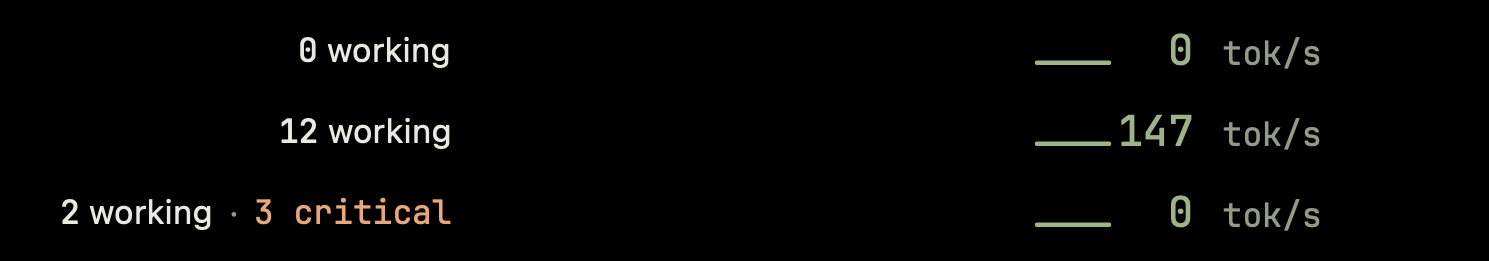
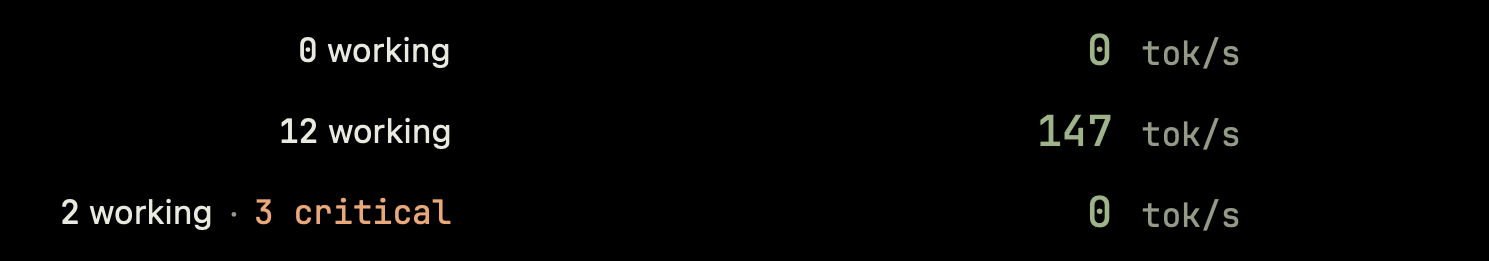
fleet: the notched bar drops the sparkline and reaches 74 % of main (QA round 2)
Odin QA round 2: the follow-up's <= 75 % on the notched geometry is mandatory, and the content the
follow-up specifies (sparkline 24 + three-digit reserve 25.2 + " tok/s" 39.6 + 6 pt of spacing =
94.8 pt) only reached 396.6 pt = 85.7 %. The sparkline is the one block big enough to give, so the
row now draws it only where the geometry has room:

- FleetPanelMetrics.closedRowShowsSparkline(hasHardwareNotch:) - false beside a camera cutout, true
  where the bar can afford it (its width stays 24 pt there).
- FleetClosedRowView draws the sparkline only when that is true, so the notched wing's content is
  67.8 pt, the wing is 73.8 pt, and the sample bar is 2 x 73.8 + 195 = 342.6 pt against main's
  463 pt = 74.0 %, inside the mandatory 347.25 pt. Displays with no cutout are unchanged
  (225.6 pt at the same content).
- FleetFormatTests: the notched test now asserts that bound (no exception clause), the 6 pt padding
  and 195 pt gap, equal wings, and that the sparkline is drawn only where the geometry has room
  (the notched row measures the same with and without a trend; the no-cutout row differs by exactly
  2 x (24 + 3) pt).

225 tests, 0 failures; app BUILD SUCCEEDED. Renders regenerated: docs/fleet-closed-width-notched.png.

Changed region(s): [[0.6797, 0.4291, 0.8959, 0.5824], [0.6797, 0.7356, 0.8959, 0.8889], [0.6797, 0.1226, 0.8959, 0.2759]]

diff --git a/boringNotchTests/FleetFormatTests.swift b/boringNotchTests/FleetFormatTests.swift
@@ -1204,8 +1204,10 @@ final class FleetFormatTests: XCTestCase {
     }
 
     /// The notched geometry - notch width 185 pt and the camera gap with its 5 pt clearance per side
-    /// (195 pt) - is the owner's MacBook. There each wing gives its content 6 pt, so the bar hugs the
-    /// camera and is narrower than main's, which padded nothing and said "tok/s total".
+    /// (195 pt) - is the owner's MacBook. There each wing gives its content 6 pt AND drops the
+    /// sparkline (`closedRowShowsSparkline`): the 195 pt camera gap is fixed, and that combination
+    /// is what brings the bar to 74 % of main's width - the follow-up's 75 % is mandatory. Main's
+    /// bar, which padded nothing and said "tok/s total", is the comparison the bar must beat.
     @MainActor
     func testTheClosedRowOnANotchedDisplayHugsTheCamera() throws {
         FleetType.registerBundledFonts(in: Bundle(for: FleetFormatTests.self))
@@ -1220,11 +1222,14 @@ final class FleetFormatTests: XCTestCase {
         XCTAssertEqual(padding, 6, "a display with a hardware notch gives each wing 6 pt")
         let gap = FleetPanelMetrics.closedRowGap(notchWidth: 185, hasHardwareNotch: true)
         XCTAssertEqual(gap, 195, "the 185 pt notch plus 5 pt clearance per side")
+        XCTAssertFalse(FleetPanelMetrics.closedRowShowsSparkline(hasHardwareNotch: true),
+                       "a camera cutout drops the sparkline")
+        XCTAssertTrue(FleetPanelMetrics.closedRowShowsSparkline(hasHardwareNotch: false),
+                      "a display without a cutout keeps the sparkline")
 
         // The notched wing: the speed side's content plus its 6 pt padding. The bitmap has two
         // wings and two pixels per point.
-        let notchedContent = FleetPanelMetrics.closedSparklineWidth + FleetPanelMetrics.closedSpeedSpacing
-            + FleetPanelMetrics.closedNumberMinWidth + FleetPanelMetrics.closedSpeedSpacing
+        let notchedContent = FleetPanelMetrics.closedNumberMinWidth + FleetPanelMetrics.closedSpeedSpacing
             + FleetType.monoWidth(text: " tok/s", size: FleetPanelMetrics.minTextSize)
         let wing = CGFloat(try rowBitmap(working: 0, alert: nil, reading: zeroReading, blackHole: false,
                                          gap: 0, hasHardwareNotch: true, trend: flat).pixelsWide) / 4
@@ -1243,6 +1248,27 @@ final class FleetFormatTests: XCTestCase {
         XCTAssertEqual(notchedWidth, 2 * (notchedContent + padding) + gap, accuracy: 1.0,
                        "the render snaps to the half-point grid")
 
+        // The sparkline is drawn only where the geometry has room. On the notched geometry a flat
+        // trend and no trend at all render the same width, so the notched row draws no sparkline.
+        let notchedNoTrendWidth = CGFloat(try rowBitmap(working: 0, alert: nil, reading: zeroReading,
+                                                        blackHole: false, gap: gap,
+                                                        hasHardwareNotch: true, trend: nil).pixelsWide) / 2
+        XCTAssertEqual(notchedWidth, notchedNoTrendWidth, accuracy: 0.5,
+                       "the notched geometry draws no sparkline, so a flat trend leaves the width unchanged")
+
+        // Without a camera cutout the sparkline is drawn: its 24 pt and the 3 pt spacing before it
+        // cost 27 pt of content per wing, so the flat trend widens the bar by 54 pt.
+        let openGap = FleetPanelMetrics.closedRowGap(notchWidth: 185, hasHardwareNotch: false)
+        let openFlatWidth = CGFloat(try rowBitmap(working: 0, alert: nil, reading: zeroReading,
+                                                  blackHole: false, gap: openGap,
+                                                  hasHardwareNotch: false, trend: flat).pixelsWide) / 2
+        let openNoTrendWidth = CGFloat(try rowBitmap(working: 0, alert: nil, reading: zeroReading,
+                                                     blackHole: false, gap: openGap,
+                                                     hasHardwareNotch: false, trend: nil).pixelsWide) / 2
+        XCTAssertEqual(openFlatWidth - openNoTrendWidth,
+                       2 * (FleetPanelMetrics.closedSparklineWidth + FleetPanelMetrics.closedSpeedSpacing),
+                       accuracy: 1.0, "the open geometry draws the sparkline, 27 pt per wing")
+
         // Main's same content at this geometry, from the old rule: a 40 pt sparkline, no
         // three-digit reserve, the "tok/s total" unit, and wings padded to the old 12 pt rule
         // capped at the 160 pt text budget, around a gap of the notch plus 5 pt per side.
@@ -1251,12 +1277,14 @@ final class FleetFormatTests: XCTestCase {
             + FleetPanelMetrics.closedSpeedSpacing
             + FleetType.monoWidth(text: " tok/s total", size: FleetPanelMetrics.minTextSize)
         let mainNotchedWidth: CGFloat = 2 * min(FleetPanelMetrics.closedRowTextWidth, oldRightContent) + (185 + 10)
-        XCTAssertLessThan(notchedWidth, mainNotchedWidth,
-                          "the notched bar measures \(notchedWidth) pt against main's \(mainNotchedWidth) pt "
-                            + "(\(notchedWidth / mainNotchedWidth) of it); the 75 % the follow-up asked for is "
-                            + "out of reach at this content: 75 % of main's width would need a 70.1 pt content "
-                            + "while this one measures 94.8 pt (sparkline 24 + three-digit reserve 25.2 + "
-                            + "\" tok/s\" 39.6 + 6 pt of spacing)")
+        // The follow-up's 75 % of main's width is mandatory. The camera gap is fixed, so the wings
+        // have to give: 6 pt each and no sparkline bring the bar to 74 % of main's 463 pt.
+        let ratio = Double(notchedWidth / mainNotchedWidth)
+        let percent = String(format: "%.1f", ratio * 100)
+        XCTAssertLessThanOrEqual(notchedWidth, 0.75 * mainNotchedWidth,
+                                 "the notched bar measures \(notchedWidth) pt against main's \(mainNotchedWidth) pt "
+                                 + "(\(percent) %); the follow-up's 75 % is mandatory, and the sparkline is "
+                                 + "dropped beside a camera cutout to get there")
 
         // Request the notched preview with
         // `TEST_RUNNER_FLEET_CLOSED_NOTCHED_PREVIEW=/tmp/notched.png xcodebuild test`.

diff --git a/boringNotch/components/Fleet/FleetClosedRowView.swift b/boringNotch/components/Fleet/FleetClosedRowView.swift
@@ -87,9 +87,12 @@ struct FleetClosedRowView: View {
             // "tok/s total"); while only cloud jobs run (the case's model reports no tok/s) the row
             // shows how many jobs run. No reading at all leaves the side empty.
             if let reading {
-                // The sparkline sits left of the number, so the reading reads as the trend, then the value.
+                // The sparkline sits left of the number, so the reading reads as the trend, then the
+                // value - where the geometry has room for it (see
+                // `FleetPanelMetrics.closedRowShowsSparkline`): beside a camera cutout the row drops
+                // it, and the number and the unit carry the reading alone.
                 HStack(alignment: .center, spacing: FleetPanelMetrics.closedSpeedSpacing) {
-                    if let trend {
+                    if let trend, FleetPanelMetrics.closedRowShowsSparkline(hasHardwareNotch: hasHardwareNotch) {
                         FleetClosedSparkline(values: FleetFormat.sparklineSeries(trend), theme: theme)
                             .frame(width: FleetPanelMetrics.closedSparklineWidth,
                                    height: FleetPanelMetrics.closedSparklineHeight)

diff --git a/boringNotch/components/Fleet/FleetFormat.swift b/boringNotch/components/Fleet/FleetFormat.swift
@@ -713,6 +713,13 @@ enum FleetPanelMetrics {
     /// took its budget from the sparkline's height; 24 pt still shows the ten-minute trend, and it pays
     /// for the number's three-digit reserve (`closedNumberMinWidth`).
     static let closedSparklineWidth: CGFloat = 24
+    /// Whether the closed row draws its sparkline in this geometry. It draws it where the bar has the
+    /// room, and drops it beside a camera cutout: there the 195 pt camera gap is fixed, the wings have
+    /// to reach 75 % of main's width (owner follow-up), and the sparkline's 24 pt plus its spacing is
+    /// the only block big enough to give. The number and the unit carry the reading on their own.
+    static func closedRowShowsSparkline(hasHardwareNotch: Bool) -> Bool {
+        !hasHardwareNotch
+    }
     /// Short enough to sit inside the speed number's line box without pushing the row taller. The
     /// height follows the bar's 70 % (0.7 x 14), so the sparkline stays inside the shorter bar.
     static let closedSparklineHeight: CGFloat = 10
